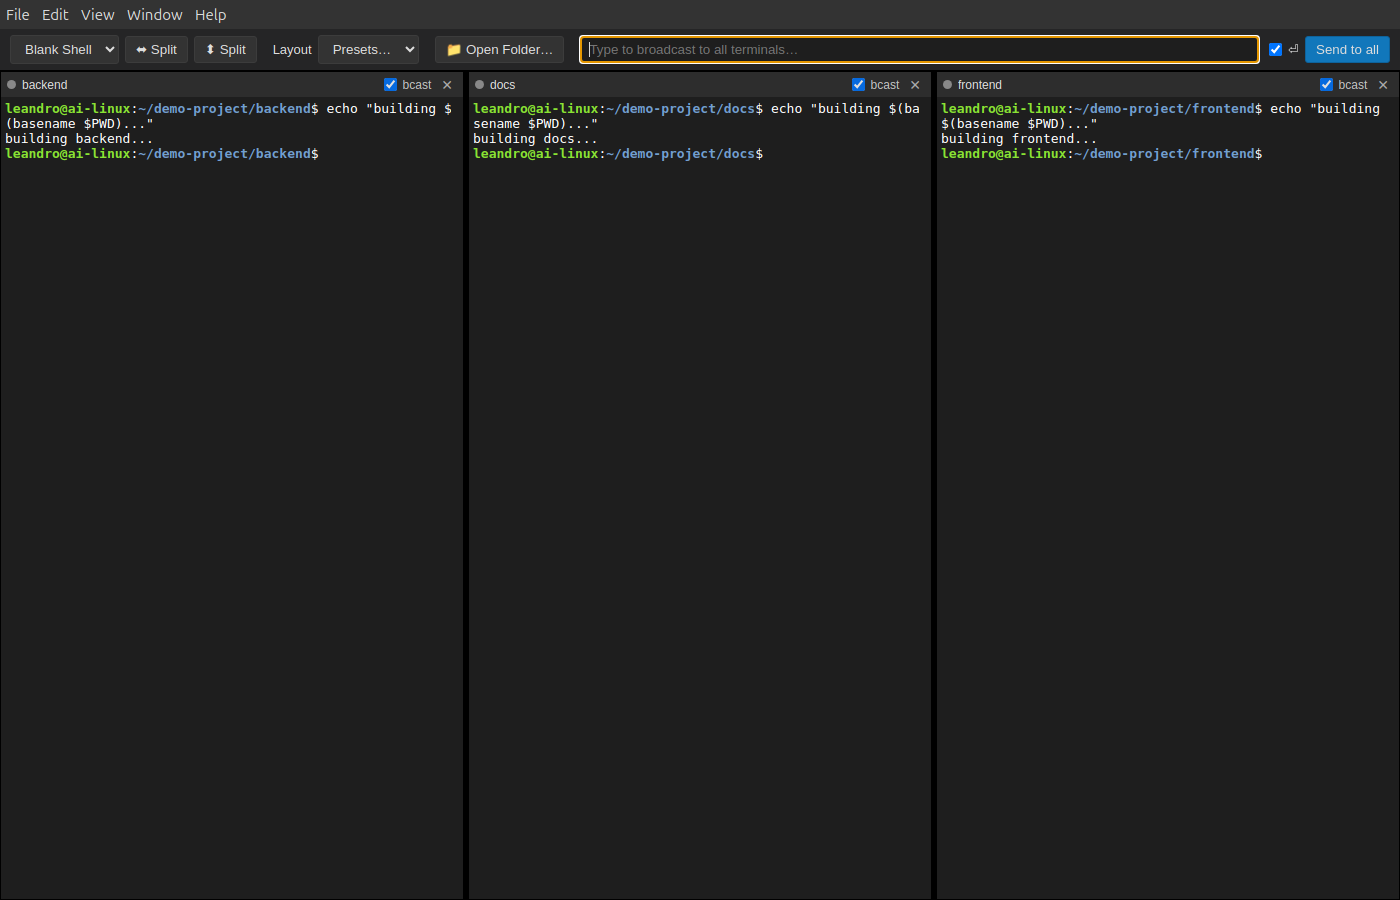
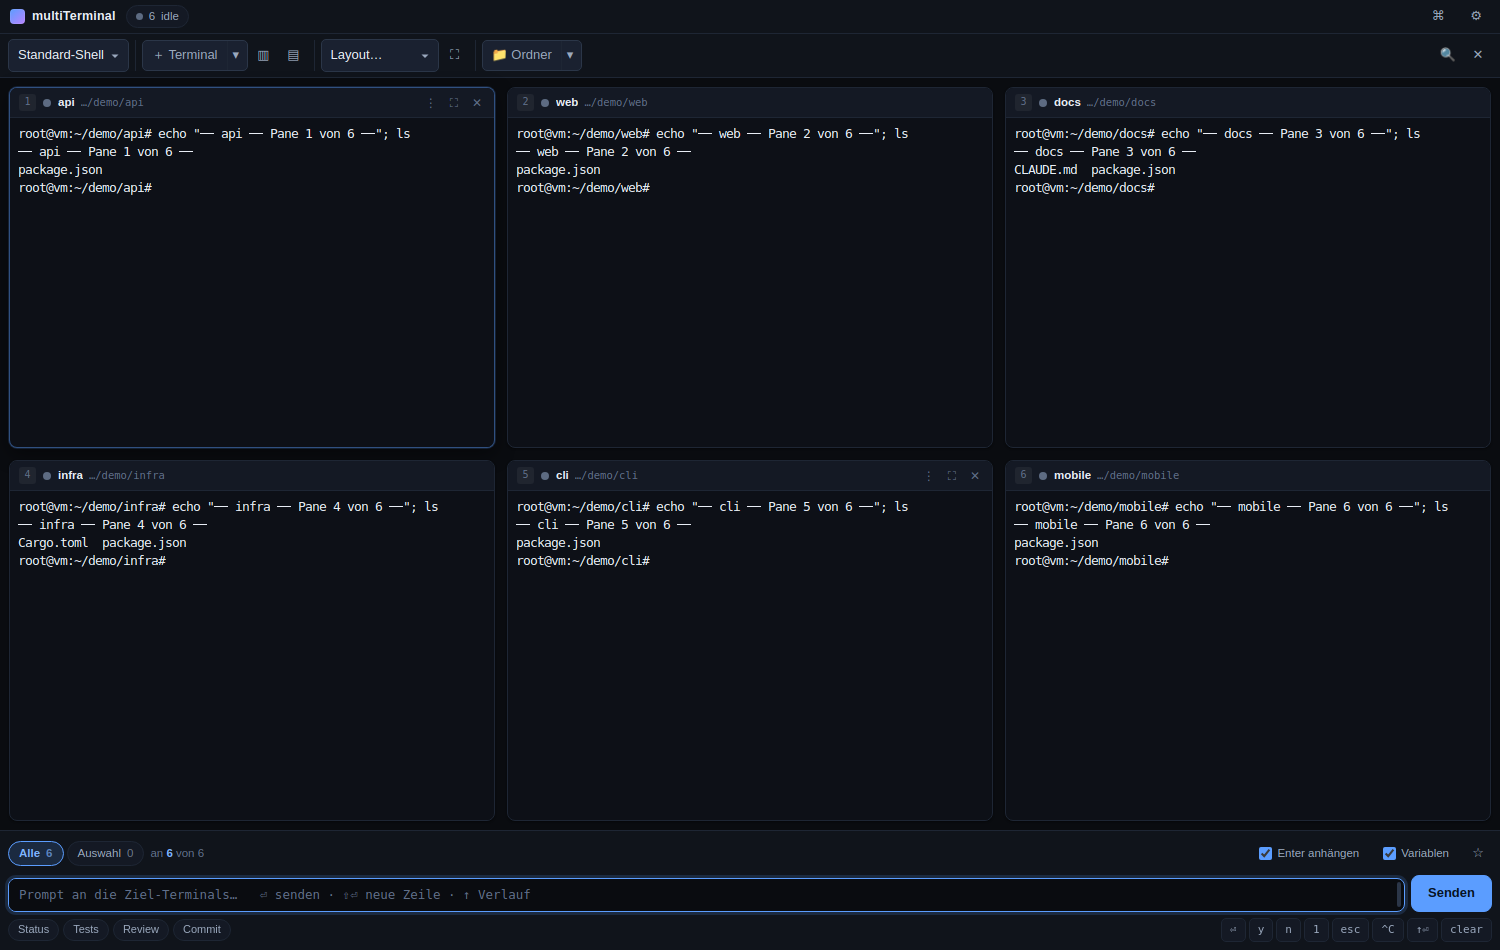
Replace the stale screenshots with the rebuilt UI
The old images still showed the prototype toolbar and the removed folder
modal. The new grid shot doubles as the feature summary: per-pane status with
the attention quick-bar, selection rings, group badges and the target count in
the composer.

Claude-Session: https://claude.ai/code/session_01Wo58aLDTfnnjyt77ErL56b

diff --git a/README.md b/README.md
@@ -11,6 +11,19 @@ PTYs, so `cd`, vim and interactive programs work normally) and
 
 ![icon](build/icon.png)
 
+## Screenshots
+
+![grid](screenshots/01-grid.png)
+*Six projects, one grid. Pane 3 has gone orange — it is asking a question, so
+it grew a `y n ⏎ esc ^C` bar and the title bar says "1 warten auf dich". Panes
+1 and 4 are selected (blue ring), 2 and 5 belong to group C, and the composer
+below reports exactly how many terminals the next prompt will reach.*
+
+| | |
+|---|---|
+| ![folders](screenshots/02-folders.png) | ![broadcast](screenshots/03-broadcast.png) |
+| The folder browser: filter, keyboard navigation, project tags, and a scan that finds every repo below a directory | One prompt, `{{name}}` and `{{index}}` expanded per pane, executed everywhere at once |
+
 ## Why
 
 Running eight AI coding agents in eight terminal tabs falls apart quickly: you
